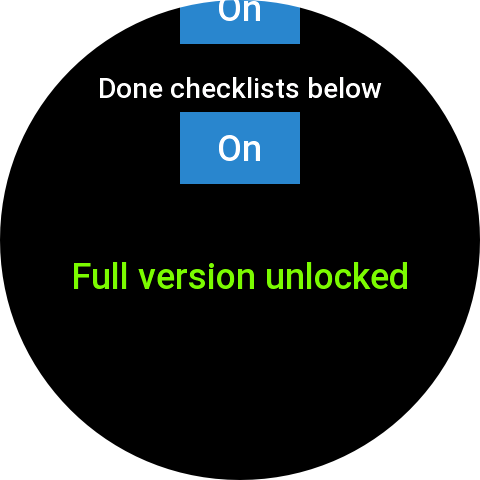
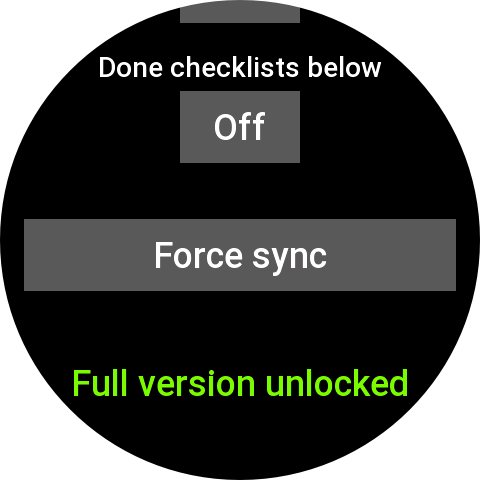
README update

diff --git a/README.md b/README.md
@@ -40,10 +40,12 @@ Typical uses:
 | Create, rename, delete checklists | ✓ | |
 | Add, edit, delete, reorder items | ✓ | |
 | Export / import checklists (JSON or CSV) | ✓ | |
+| Choose colors for items and checklists | ✓ | |
+| Set a daily reset time per checklist | ✓ | |
 | Reorder checklists | ✓ | |
 | Check / uncheck items | | ✓ |
 | Reset all items in a list | | ✓ |
-| Adjust row height, reopen-on-wake, done-items / done-checklists below | | ✓ |
+| Adjust row height, font size, reopen-on-wake, done-items / done-checklists below | | ✓ |
 | Keep screen on while packing | | ✓ |
 | See recently used checklists on a widget | | ✓ (supported devices) |
 
@@ -65,7 +67,7 @@ On first install, the app includes two **sample checklists** (*Swimming pool* an
 
 The phone side is where you **build and maintain** your checklists. Open it from the Zepp app while your watch is paired.
 
-<img src="docs/screenshots/02-phone-settings-overview-top.jpg" alt="Phone settings — checklist editor (top)" width="320" /> <img src="docs/screenshots/02-phone-settings-overview-bottom.jpg" alt="Phone settings — checklist editor (bottom)" width="320" />
+<img src="docs/screenshots/02-phone-settings-overview-top.png" alt="Phone settings — checklist editor (top)" width="320" /> <img src="docs/screenshots/02-phone-settings-overview-bottom.png" alt="Phone settings — checklist editor (bottom)" width="320" />
 
 ### Checklists
 
@@ -73,7 +75,19 @@ The phone side is where you **build and maintain** your checklists. Open it from
 - **Rename a checklist** — tap the checklist name and edit it (max **200 characters**).
 - **Delete a checklist** — tap the **✖** button next to the name; confirm with **Delete** or cancel.
 - **Reorder checklists** — use the **↑** / **↓** buttons (shown when you have two or more lists).
+- **Daily reset** — under **Add item**, choose **Off** (default) or a 24-hour time (`HH` then `MM`). After that time, the next time you open the watch app or the widget, every item in that list is set back to **to pack**. Use this for lists you repeat every day (for example supplements). If the watch is asleep at the chosen time, the reset happens when you next open the app or widget.
 - **Duplicate names** are not allowed (case-insensitive).
+
+### Colors
+
+At the top of the phone settings, pick what you want to color from the dropdown, then tap a square. The dropdown always has one of these selected:
+
+- **Checked items** — color for done items (default forest).
+- **Unchecked items** — color for items still to pack (default gray).
+- **Done checklists** — color for fully completed lists on the watch (default gray).
+- **Undone checklists** — color for lists that still have items to pack, including empty lists (default blue).
+
+The selected color has a dark border. These four colors apply to every checklist. Keep the watch app open to see changes immediately after sync.
 
 ### Items
 
@@ -85,32 +99,42 @@ The phone side is where you **build and maintain** your checklists. Open it from
 
 ### Backup (export / import)
 
-Use the format selector next to **Export** / **Import** to choose **JSON** or **CSV** (JSON is selected by default). Export and import always use the selected format. Backups contain checklist and item **names only** — checked/unchecked state lives on the watch and is not included.
+Use the format selector next to **Export** / **Import** to choose **JSON** or **CSV** (JSON is selected by default). Export and import always use the selected format. **JSON** backups include checklist names, item names, daily reset times, and the four watch colors. **CSV** is names only. Checked/unchecked item state lives on the watch and is not included.
 
 - **Export** — opens a backup of all checklists; select all, copy, and save it somewhere safe.
-- **Import** — paste a previously saved backup and tap **OK**. Existing checklists/items are merged (duplicates are skipped; new lists and items are added).
+- **Import** — paste a previously saved backup and tap **OK**. Existing checklists/items are merged (duplicates are skipped; new lists and items are added). Backups from version 1.0 still import; your current colors stay if the file has none. Colors and daily reset times are restored when the backup includes them.
 
 **JSON** example:
 
 ```json
-[
-  {
-    "name": "Swimming pool",
-    "values": [
-      { "name": "Swimsuit" },
-      { "name": "Towel" },
-      { "name": "Goggles" }
-    ]
-  },
-  {
-    "name": "Bike ride",
-    "values": [
-      { "name": "Helmet" },
-      { "name": "Water bottle" },
-      { "name": "Snacks" }
-    ]
+{
+  "checklists": [
+    {
+      "name": "Swimming pool",
+      "resetTime": "",
+      "values": [
+        { "name": "Swimsuit" },
+        { "name": "Towel" },
+        { "name": "Goggles" }
+      ]
+    },
+    {
+      "name": "Bike ride",
+      "resetTime": "03:00",
+      "values": [
+        { "name": "Helmet" },
+        { "name": "Water bottle" },
+        { "name": "Snacks" }
+      ]
+    }
+  ],
+  "itemColors": {
+    "unchecked": "#5b5b5b",
+    "checked": "#1e8449",
+    "undoneChecklists": "#2986cc",
+    "doneChecklists": "#5b5b5b"
   }
-]
+}
 ```
 
 **CSV** — one line per checklist, no header. First field is the checklist name; the rest are items:
@@ -125,10 +149,10 @@ CSV is handy for creating lists by hand (e.g. in a notes app) and importing them
 ### Validation and messages
 
 - Empty names or names longer than 200 characters are rejected with an error message.
-- In the **free trial** (first **90 days**), adding a third checklist shows:  
+- In the **free trial** (first **7 days**), adding a third checklist shows:  
   *"You already have 2 checklists. That is the maximum during the free trial. Open Settings in the watch app and tap Buy full version for unlimited checklists."*
-- After the **90-day trial ends**, adding checklists is blocked until you purchase; the message is:  
-  *"Your 3-month trial has ended. Open Settings in the watch app and tap Buy full version to keep using the app with unlimited checklists."*
+- After the **7-day trial ends**, adding checklists is blocked until you purchase; the message is:  
+  *"Your 7-day trial has ended. Open Settings on the watch app and tap Buy full version to add or edit checklists and items."*
 
 ---
 
@@ -143,7 +167,7 @@ When you open My Checklists on the watch, you see all your checklists as tappabl
 | Control | Description |
 |---------|-------------|
 | **Stay on** (top bar) | Toggle to keep the screen awake while you pack. Blue = on, gray = off. Useful when checking many items in a row. |
-| **Checklist buttons** | Tap a checklist to open its items. The label includes progress (`name  done/total`). |
+| **Checklist buttons** | Tap a checklist to open its items. The label includes progress (`name  done/total`). Lists with a **Daily reset** time show `0/total` after that time the next time this screen (or the widget) is opened. |
 | **Settings** | Opens watch-specific display and purchase options. |
 
 By default, checklists keep the order from the phone. If **Done checklists below** is enabled in watch Settings, fully completed lists appear under incomplete ones. The widget is unchanged (still recent-use order).
@@ -171,10 +195,11 @@ Tap a checklist to see its items. This is where you use the list day to day.
 | Control | Description |
 |---------|-------------|
 | **Back** (top) | Return to the checklist list. |
-| **Item rows** | Tap an item to toggle it between **to pack** (red) and **done** (gray). |
-| **Deselect all** (bottom) | Resets every item in this list back to **to pack** (red) so you can reuse the list next time. |
+| **Item rows** | Tap an item to toggle it between **to pack** (default gray) and **done** (default forest). Colors can be changed in the Zepp app on your phone. |
+| **Reset at HH:MM** | Shown under **Back** when that list has a daily reset time. Hidden when reset is **Off**. |
+| **Deselect all** (bottom) | Resets every item in this list back to **to pack** so you can reuse the list next time. Lists with **Daily reset** do this automatically after the chosen time. |
 
-By default, items keep the order from the phone. If **Done items below** is enabled in watch Settings, **done** (gray) items always appear under **to pack** (red) ones while you check things off — phone order is unchanged.
+By default, items keep the order from the phone. If **Done items below** is enabled in watch Settings, **done** items always appear under **to pack** ones while you check things off — phone order is unchanged.
 
 **Empty list:** If a checklist has no items, the watch shows *"No items yet."* — add items on the phone.
 
@@ -190,11 +215,13 @@ Open **Settings** from the main watch screen.
 
 | Setting | Description |
 |---------|-------------|
-| **Checklist height** | Row height for checklist names on the main screen (48–96 px, step 4). Adjust if names are clipped or you want more lists on screen. |
-| **Item height** | Row height for items inside a checklist (48–96 px, step 4). |
+| **Checklist height** | Row height for checklist names on the main screen (48–96, step 4). Adjust if names are clipped or you want more lists on screen. |
+| **Item height** | Row height for items inside a checklist (48–96, step 4). |
+| **Font size** | Text size for checklist names and item names (24–48, step 2). **Stay on**, **Back**, **Settings**, and the widget title stay the same size. |
 | **Reopen on wake** | **On** (default): when the watch screen turns back on, the app reopens where you left off. **Off**: the app closes normally when the screen sleeps. Works whether you wake the screen with a button, touch, or wrist gesture. |
-| **Done items below** | **Off** (default): items stay in phone order. **On**: **done** (gray) items are always shown below **to pack** (red) ones on the item screen. Only affects display on the watch; checklist order on the phone is unchanged. |
+| **Done items below** | **Off** (default): items stay in phone order. **On**: **done** items are always shown below **to pack** ones on the item screen. Only affects display on the watch; checklist order on the phone is unchanged. |
 | **Done checklists below** | **Off** (default): checklists stay in phone order on the main screen. **On**: fully completed lists (`done/total` where done equals total) appear below incomplete ones. Empty lists stay with incomplete. Does not change phone order or the widget’s recent-use sorting. |
+| **Force sync** | Shows **Syncing…**, pulls the latest lists and colors from the phone, then returns to the main list. Use this if the watch does not show what you just edited on the phone. |
 | **Buy full version** | Starts the in-app purchase flow (KiezelPay). Hidden once licensed; replaced by **Full version unlocked**. |
 
 Tap **Back** to save layout changes and return to the main screen.
@@ -203,7 +230,7 @@ Tap **Back** to save layout changes and return to the main screen.
 
 ## Watch widget
 
-On devices that support **SecondaryWidget**, you can add **My Checklists** as a full-screen widget (swipe horizontally from the watch face to browse widgets in either direction).
+On devices that support widgets, you can add **My Checklists** as a full-screen widget (swipe horizontally from the watch face to browse widgets in either direction).
 
 <img src="docs/screenshots/12-watch-widget.png" alt="Watch widget — recently used checklists" width="240" />
 
@@ -211,7 +238,7 @@ On devices that support **SecondaryWidget**, you can add **My Checklists** as a 
 |---------|-------------|
 | **My Checklists** (top bar) | Opens the main checklist list in the app. |
 | **Recently used checklists** | Section label above the rows. |
-| **Checklist rows** | Shows as many recently used checklists as fit on the screen. Each row uses the same `name  done/total` progress label as the main app. Tap a row to open that checklist’s items. |
+| **Checklist rows** | Shows as many recently used checklists as fit on the screen. Each row uses the same `name  done/total` progress label as the main app. Tap a row to open that checklist’s items. Daily reset is applied when the widget is shown or swiped onto, so the counts match the app. |
 
 **How “recently used” is decided**
 
@@ -221,18 +248,18 @@ On devices that support **SecondaryWidget**, you can add **My Checklists** as a 
 
 **Navigation from the widget**
 
-- Tap a checklist → opens the items screen.
-- From that items screen, **Back**, the system **back gesture**, and the hardware **back** key (where available) all go to the main checklist list — not back to the widget — so you can open another list without leaving the app.
+- Tap a checklist → opens that list’s items.
+- From those items, **Back**, the swipe-back gesture, and the hardware **back** key (where available) all go to the main checklist list — not back to the widget — so you can open another list without leaving the app.
 - Tap **My Checklists** on the widget → opens the main checklist list directly.
 
-> **Note:** Not every Amazfit model supports SecondaryWidget. If you do not see My Checklists in **Settings → Preferences → Widget**, your watch does not expose this surface.
+> **Note:** Not every Amazfit model supports this widget. If you do not see My Checklists in **Settings → Preferences → Widget**, your watch does not offer it.
 
 ---
 
 ## How sync works
 
-- **Phone → watch:** Checklist names, item names, and order are edited on the phone and pushed to the watch over Bluetooth when connected.
-- **Watch-only data:** Which items are checked off (**red** vs **gray**) is stored on the watch. When lists are updated from the phone, your checked states for **unchanged item names** are preserved. Recent-use order for the widget is also stored on the watch.
+- **Phone → watch:** Checklist names, item names, item/checklist colors, daily reset times, and order are edited on the phone and pushed to the watch over Bluetooth when connected.
+- **Watch-only data:** Which items are checked off is stored on the watch. When lists are updated from the phone, your checked states for **unchanged item names** are preserved. Recent-use order for the widget is also stored on the watch. A phone sync does not run the same daily reset twice on the same day.
 - **Offline watch:** Previously synced lists remain available on the watch; new edits from the phone apply the next time devices connect.
 - **Renamed or removed items** on the phone may reset the checked state for those entries on the next sync.
 
@@ -240,9 +267,9 @@ On devices that support **SecondaryWidget**, you can add **My Checklists** as a 
 
 ## Free trial vs full version
 
-My Checklists uses a **90-day free trial**, then a **one-time purchase of $2.00** for the full version.
+My Checklists uses a **7-day free trial**, then a **one-time purchase of $2.00** for the full version.
 
-| | During 90-day trial | After trial (not purchased) | Full version (**$2.00**) |
+| | During 7-day trial | After trial (not purchased) | Full version (**$2.00**) |
 |---|---------------------|----------------------------|--------------------------|
 | Checklists | Up to **2** | Must purchase to add lists | **Unlimited** |
 | Items per checklist | Unlimited | Unlimited (existing lists) | Unlimited |
@@ -310,4 +337,13 @@ When reporting a problem, please include your **watch model**, **Zepp app versio
 
 ## Version
 
-Current app version: **1.0.0**.
+Current app version: **2.0.0**.
+
+**What’s new in 2.0.0**
+
+- **Colors** — choose colors for checked/unchecked items and done/undone lists in the Zepp app.
+- **Daily reset** — set a time per list so it returns to **to pack** the next time you open the app or widget after that time.
+- **Font size** — change checklist and item text size in watch Settings.
+- **Force sync** — pull the latest lists and colors from the phone if the watch is behind.
+- Opening a list and going back is faster.
+- The free trial is **7 days** (was 90 days).
